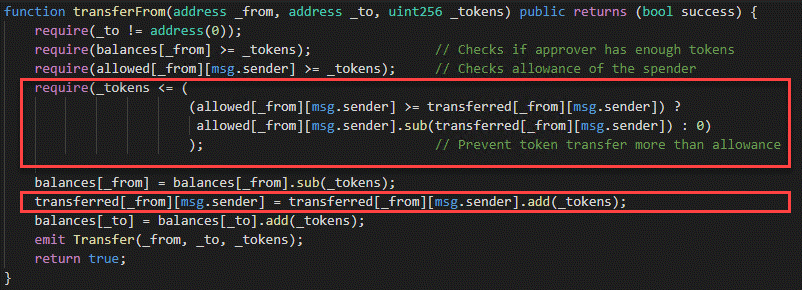
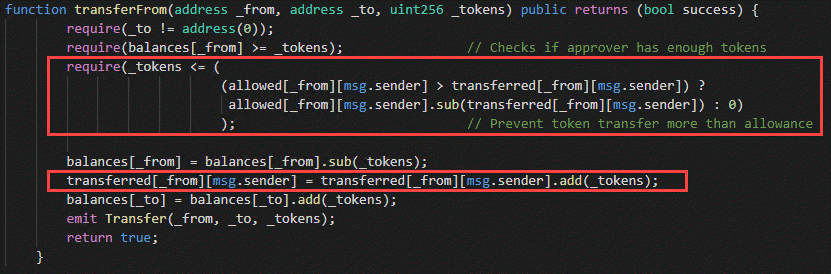
Update

Changed region(s): [[0.0, 0.0, 0.9975, 0.9927]]

diff --git a/multiple_withdrawal.rst b/multiple_withdrawal.rst
@@ -216,7 +216,7 @@ This `approach <https://github.com/ethereum/EIPs/issues/738#issuecomment-3739359
     
     *Figure 14: Keeping track of remaining tokens*
 
-At first, it seems that this solution is a sustainable way to mitigate the attack by setting apprval to zero before non-zero values. However, the highlighted code resembles the situation that we explained in :ref:`ui_enforcement`:
+At first, it seems that this solution is a sustainable way to mitigate the attack by setting approval to zero before non-zero values. However, the highlighted code resembles the situation that we explained in :ref:`ui_enforcement`:
 
 #. Bob's allowance is initially zero (``allowances[_AliceAddr][_BobAddr].initial=0``, ``allowances[msg.sender][spender].residual=0``).
 #. Alice allows Bob to transfer N tokens (``allowances[_AliceAddr][_BobAddr].initial=N``, ``allowances[_AliceAddr][_BobAddr].residual=N``).
@@ -442,7 +442,7 @@ So, the goal is to prevent spender from transferring more tokens than allowed by
 #. Bob got new allowance and runs ``transferFrom(_BobAddr,80)``. Since he already transferred more than 80, his transaction will fail and prevent multiple withdrawal.
 #. Bob's allowance stays as 80, however, he can not use it.
 
-Here allowance can be considered as **possible allowance** or **potential allowance**. It indicates that Bob is eligible to transfer up to allowance limit if he has not already transferred any tokens. ``transferred`` is life time variable that accumulates transferred tokens regardless of allowance change. So, by this assumption, we can secure ``transferFrom`` method instead of ``approve`` method as below:
+Here allowance can be considered as maximum allowance. It indicates that Bob is eligible to transfer up to specified limit if he has not already transferred any tokens. In fact, there is no relation between allowance (``allowed[_from][msg.sender]``) and transferred tokens (``transferred[_from][msg.sender]``). The fist variable shows maximum transferrable tokens by a spender and can be changed irrelative to transferred tokens (``approve`` method does not check transferred tokens). If Bob has not already transferred that much of tokens, he would be able to transfer difference of it ``allowed[_from][msg.sender].sub(transferred[_from][msg.sender])``. In other words, ``transferred`` is life time variable that accumulates transferred tokens regardless of allowance change. So, by this assumption, we can secure ``transferFrom`` method instead of ``approve`` method as below:
 
 .. figure:: images/multiple_withdrawal_31.png
     :scale: 100%
